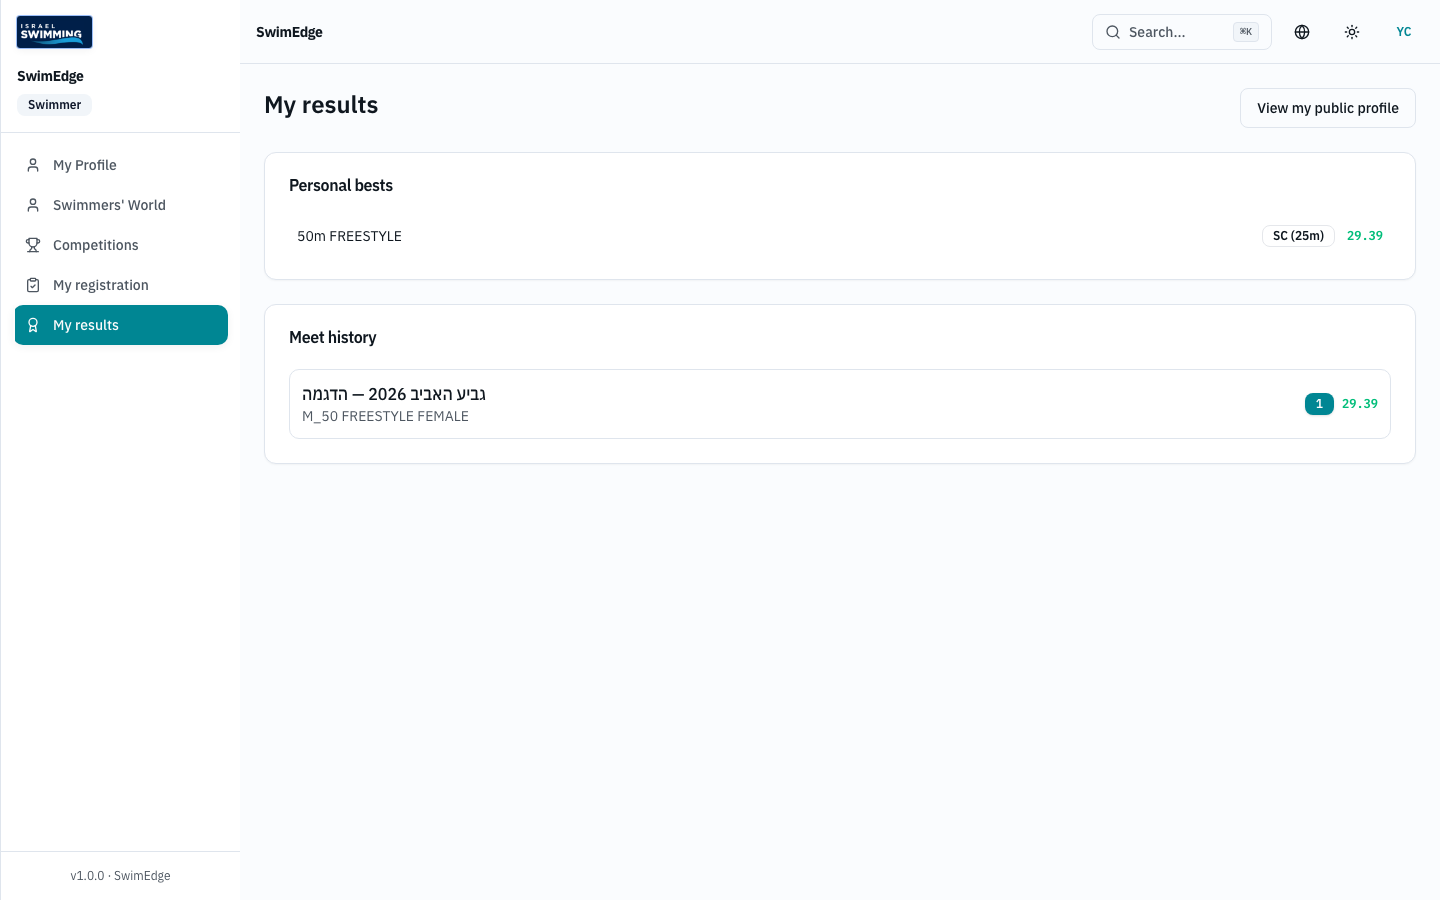
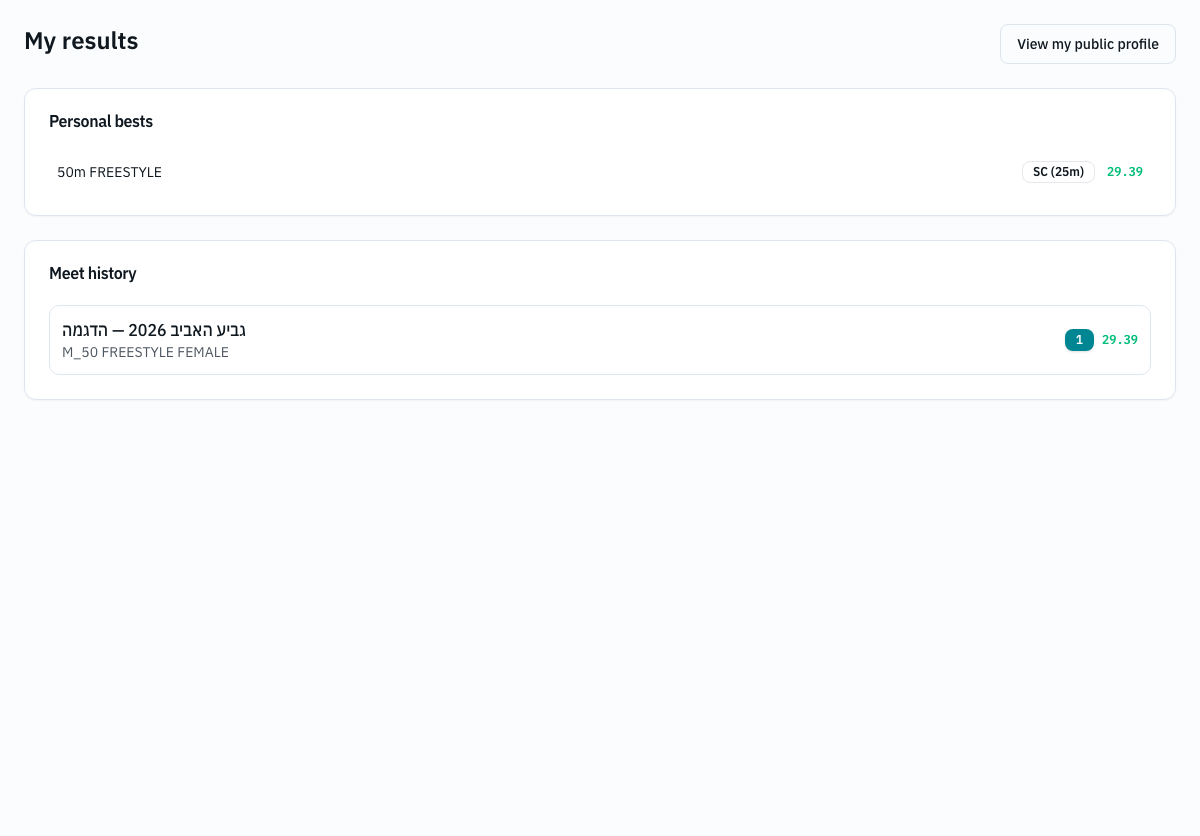
Recapture SwimEdge screenshots in English via API-login bypass.
Replaces the timing-sensitive form login with an API call that seeds the
persisted auth store, and sets the language before first render so no
Hebrew frame is painted. Also fixes what the shots actually showed: the
archive was a 1:3 full-page dump (now height-capped), the dashboard opened
an empty future meet (now a completed one with entries), and claims and
held-results were literally the same image. The held-results queue is empty
since it was worked to zero, so the Data lens now shows a real imported
championship instead, plus the swimdata-il resolution panel.

diff --git a/src/content/projects.ts b/src/content/projects.ts
@@ -335,7 +335,7 @@ export const projects: Project[] = [
         body: [
           'The ingestion approach has a standalone, public proof. Before scaling it inside SwimEdge, I built swimdata-il as a Data Management course final at Ben-Gurion University: it turns the federation’s PDF-only competition results into a normalised relational database anyone can query.',
           'The parser reads PDFs by geometry — word coordinates become column bands — rather than by text order, which is what breaks the moment a layout shifts. Identity resolution then does the hard part: the same club appears as Maccabi, Macabbi, Maccabbi and Macabi across two languages and two scripts, so the loader keys on the numeric federation code and picks the canonical name by statistical mode, recording every observed spelling in an audit table.',
-          `The audit table ends up holding ${facts.swimdata.nameVariants} distinct spellings for ${facts.swimdata.clubs} clubs, and the approach self-heals a genuine data defect along the way: a status token that had leaked into a club cell produced a bogus spelling, which simply lost to the correct one on frequency. The Hebrew start list is then bridged to the English results sheet on the shared event, heat, and lane tuple, matching ${facts.swimdata.matchRate} of rows one-to-one with zero ambiguity.`,
+          `That collapses ${facts.swimdata.nameVariants} observed spellings into ${facts.swimdata.clubs} real clubs, and it self-heals a genuine data defect along the way: a status token that had leaked into a club cell produced a bogus spelling, which simply lost to the correct one on frequency. The Hebrew start list is then bridged to the English results sheet on the shared event, heat, and lane tuple, matching ${facts.swimdata.matchRate} of rows one-to-one with zero ambiguity.`,
           `Across ${facts.swimdata.championships} real championships that yields ${facts.swimdata.swims.toLocaleString()} swims and ${facts.swimdata.swimmers.toLocaleString()} swimmers over ${facts.swimdata.events} events, normalised to BCNF with ${facts.swimdata.orphanForeignKeys} orphan foreign keys, plus a self-contained dashboard generated from the loaded database. It is the one part of this work anyone can open and check for themselves.`,
         ],
       },
@@ -508,9 +508,9 @@ export const projects: Project[] = [
         lenses: ['pm'],
       },
       {
-        file: 'swimedge-held-results.png',
-        caption: 'Held-results operations',
-        hint: 'Federation ops — unattributed results awaiting resolution',
+        file: 'swimedge-results.png',
+        caption: 'An imported championship, in the archive',
+        hint: 'A real federation meet ingested from source documents — full event catalogue, publicly browsable',
         aspect: 'auto',
         lenses: ['data'],
       },
@@ -522,9 +522,9 @@ export const projects: Project[] = [
         lenses: ['fullstack'],
       },
       {
-        file: 'swimdata-dashboard.png',
-        caption: 'swimdata-il — the ingestion method, in public',
-        hint: `Self-contained dashboard built from ${facts.swimdata.swims.toLocaleString()} geometry-parsed swims`,
+        file: 'swimdata-challenge.png',
+        caption: 'swimdata-il — entity resolution, live from the database',
+        hint: 'The public dashboard’s resolution panel, generated from the loaded database',
         aspect: 'auto',
         lenses: ['data'],
       },
